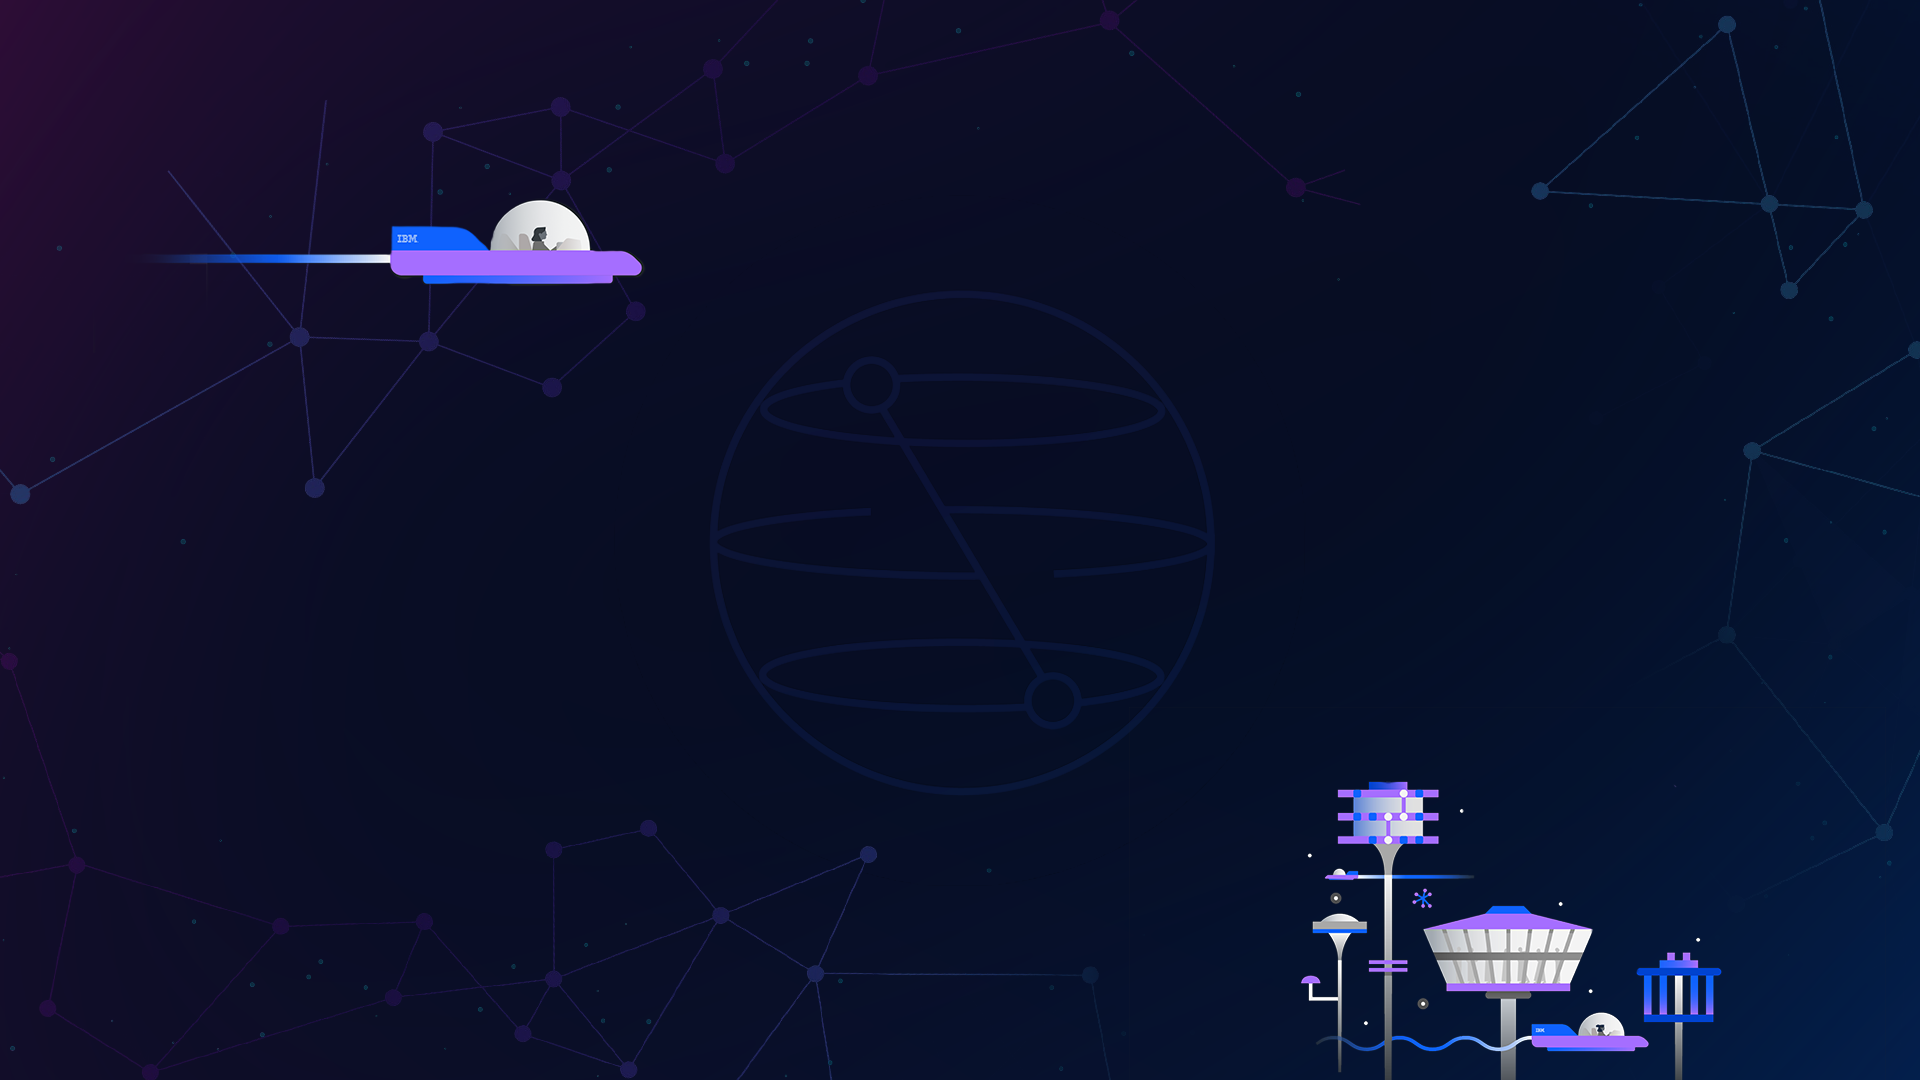
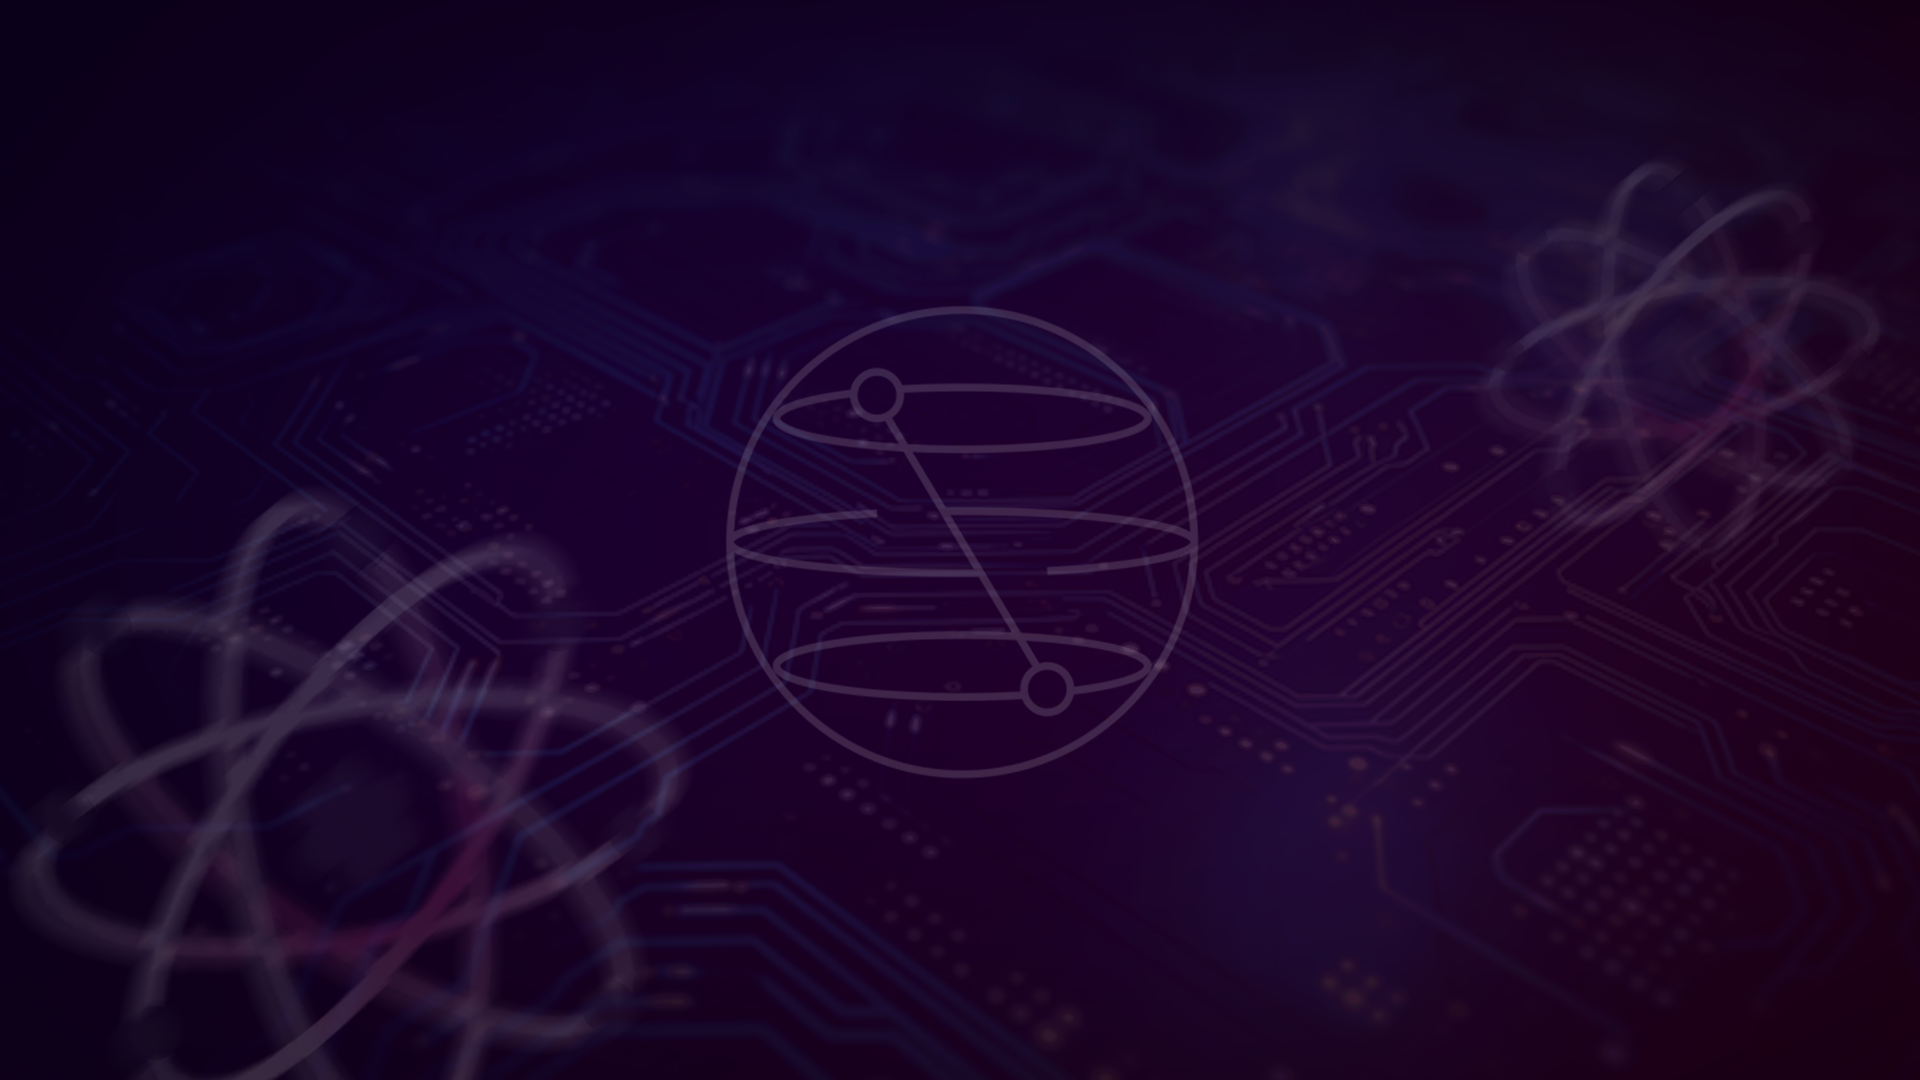
Minor styling modifications to landing page

diff --git a/components/Card.jsx b/components/Card.jsx
@@ -16,7 +16,7 @@ const Card = () => {
             transition={spring}
           >
             <div className="card text-center items-center ">
-              <p className="text-lg font-semibold">DAY-1 OCTOBER 1 2024</p>
+              <p className="text-lg font-semibold">DAY-1: OCTOBER 29, 2025</p>
               <p className="text-lg">
                 <span className="heading">Venue:</span> AB1 Nethaji Auditorium
               </p>
@@ -34,7 +34,7 @@ const Card = () => {
             transition={spring}
           >
             <div className=" card text-center items-center ">
-              <p className="text-lg font-semibold">DAY-2 OCTOBER 2 2024</p>
+              <p className="text-lg font-semibold">DAY-2: OCTOBER 30, 2025</p>
               <p className="text-lg">
                 <span className="heading">Venue:</span> Online - MS Teams
               </p>
@@ -52,30 +52,12 @@ const Card = () => {
             transition={spring}
           >
             <div className=" card text-center items-center ">
-              <p className="text-lg font-semibold">DAY-3 OCTOBER 3 2024</p>
+              <p className="text-lg font-semibold">DAY-3: OCTOBER 31, 2025</p>
               <p className="text-lg">
                 <span className="heading">Venue:</span> AB1 Nethaji Auditorium
               </p>
               <div className="p-2 m-2">
                 <Three />
-              </div>
-            </div>
-          </motion.div>
-        </li>
-        <li>
-          <motion.div
-            className=""
-            initial={{ x: "-10%", filter: "blur(40px)" }}
-            whileInView={{ x: "0", filter: "blur(0px)" }}
-            transition={spring}
-          >
-            <div className=" card text-center items-center ">
-              <p className="text-lg font-semibold">DAY-4 OCTOBER 4 2024</p>
-              <p className="text-lg">
-                <span className="heading">Venue:</span> Kasturba Auditorium
-              </p>
-              <div className="p-2 m-2">
-                <Four />
               </div>
             </div>
           </motion.div>

diff --git a/components/Home.jsx b/components/Home.jsx
@@ -13,25 +13,26 @@ export default function Home() {
           <div className="one">
             <h1 className="text-6xl max-sm:text-4xl overflow-hidden">
               IBM Qiskit
-              <p className="heading font-extrabold text-5xl ">
-                Fall Fest 2024
+              <p className="heading effect-shine font-extrabold text-5xl ">
+                Fall Fest 2025
               </p>
           
               
             </h1>
           </div>         
           <div className="two"> 
-            <img src="/badge.png"></img>
+            <img className="glow-img effect-shine transform hover:scale-105 transition-transform duration-300 hover:shadow-lg hover:shadow-purple-700" 
+            src="/badge.png" alt="Badge" />
           </div> 
           <div className="three">
             <div className="flex flex-col items-center justify-center gap-4"> {/* Aligns the date and button */}
               <h1 className="text-6xl max-sm:text-4xl overflow-hidden">
                 October
-                <p className="heading font-extrabold text-5xl">1st - 4th</p>
+                <p className="heading effect-shine font-extrabold text-5xl">29th - 31st</p>
               </h1>
               <a
                 href="https://vitchennaievents.com"
-                className="text-lg font-thin register"
+                className="text-lg font-thin register effect-shine transform hover:scale-105 transition-transform duration-300 hover:shadow-lg hover:shadow-purple-700 hover:text-white"
               >
                 REGISTER
               </a>

diff --git a/app/globals.css b/app/globals.css
@@ -89,7 +89,7 @@ body {
 }
 .home {
   display: flex;
-  margin-left: -50px;
+  margin-left: -35px;
   flex-direction: row;
   justify-content: center; 
   align-items: center; 
@@ -109,8 +109,10 @@ body {
 }
 
 .two img {
-  width: 300px; 
+  width: 200px; 
   height: auto;
+  margin: 50px;
+  margin-left: 70px;
 }
 
 .register {
@@ -451,3 +453,61 @@ table{
 .col{
   border-right: 1px solid white;
 }
+
+.effect-shine:hover {
+  -webkit-mask-image: linear-gradient(-75deg, rgba(255, 255, 255, 0.6) 30%, #ffffff 50%, rgba(255, 255, 255, 0.6) 70%);
+  mask-image: linear-gradient(-75deg, rgba(255, 255, 255, 0.6) 30%, #ffffff 50%, rgba(255, 255, 255, 0.6) 70%);
+  -webkit-mask-size: 200%;
+  mask-size: 200%;
+  animation: shine 2s infinite;
+}
+
+@-webkit-keyframes shine {
+  from {
+    -webkit-mask-position: 150%;
+  }
+  
+  to {
+    -webkit-mask-position: -50%;
+  }
+}
+
+@keyframes shine {
+  from {
+    mask-position: 150%;
+  }
+  
+  to {
+    mask-position: -50%;
+  }
+}
+
+.glow-img {
+  width: 150px;      /* set size */
+  height: 150px;
+  border-radius: 50%;
+  display: block;
+
+  /* start glow */
+  box-shadow: 0 0 145px 25px purple;
+  animation: imgGlow 6s infinite alternate ease-in-out;
+}
+
+@keyframes imgGlow {
+  0% {
+    box-shadow: 0 0 10px 2px purple;
+  }
+  25% {
+    box-shadow: 0 0 25px 8px purple;
+  }
+  50% {
+    box-shadow: 0 0 10px 2px rgba(123, 74, 221, 0.4);
+  }
+  75% {
+    box-shadow: 0 0 25px 8px rgba(244, 44, 255, 0.4);
+  }
+  100% {
+    box-shadow: 0 0 10px 2px purple;
+  }
+}
+

diff --git a/app/page.jsx b/app/page.jsx
@@ -9,7 +9,7 @@ import Footer from "@/components/Footer";
 import { motion, spring } from "framer-motion";
 const Page = () => {
   return (
-    <div className="sm:text-xs flex flex-col gap-16 " id="home">
+    <div className="sm:text-xs flex flex-col gap-16" id="home">
       <div className="h-full snap-center items-start justify-center Home">
         {/* <Image
           src={Bg}
@@ -22,7 +22,7 @@ const Page = () => {
       </div>
       <div id="about">
         <motion.div
-          className=""
+          className=" px-[40px]"
           initial={{ x: "-100%", filter: "blur(10px)" }}
           whileInView={{ x: "0", filter: "blur(0px)" }}
           transition={spring}
@@ -32,7 +32,7 @@ const Page = () => {
       </div>
       <div id="partner">
         <motion.div
-          className=""
+          className=" px-[40px]"
           initial={{ x: "-100%", filter: "blur(10px)" }}
           whileInView={{ x: "0", filter: "blur(0px)" }}
           transition={spring}
@@ -40,7 +40,7 @@ const Page = () => {
           <Partner />
         </motion.div>
       </div>
-      <div className="flex gap-10 flex-col justify-center my-10" id="schedule">
+      <div className="flex gap-10 flex-col  px-[40px] pb-[100px] justify-center my-10 bg-[url('../public/bg2.png')] bg-cover " id="schedule">
         <p className="text-6xl p-10 heading">SCHEDULE</p>
         <div className="text-lg m-12 text-justify font-thin">
           Qiskit Fall Fest is the world’s largest collection of student-run

diff --git a/app/layout.tsx b/app/layout.tsx
@@ -30,8 +30,8 @@ export default function RootLayout({
       <body
         className={`${geistSans.variable} ${geistMono.variable} antialiased flex`}
       >
-        <div className="ele Logo absolute">
-          <Image alt="hello" src={Logo} height={100} width={100}></Image>
+        <div className="ele Logo absolute pt-1 pl-1">
+          <Image alt="hello" src={Logo} height={80} width={80}></Image>
         </div>
         <div className="fixed right-2 z-50">
           <Navbar />
